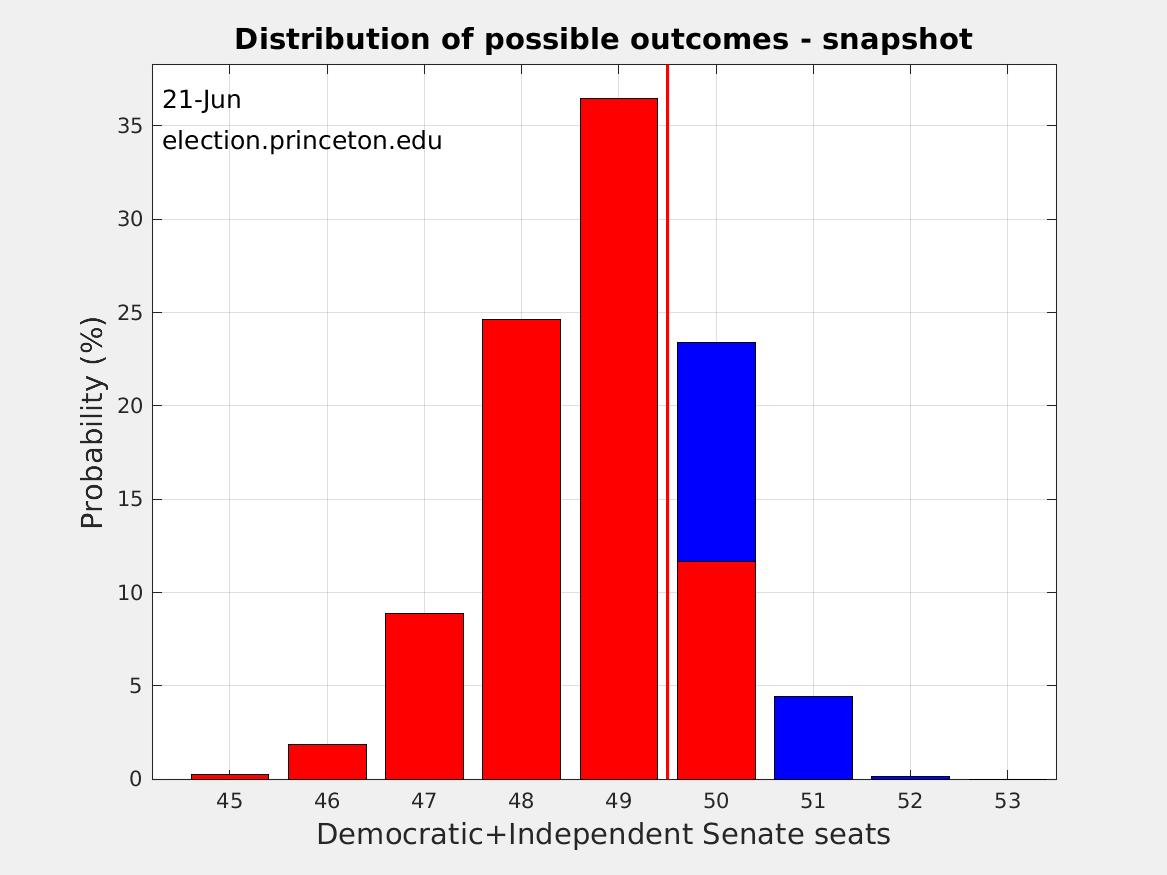
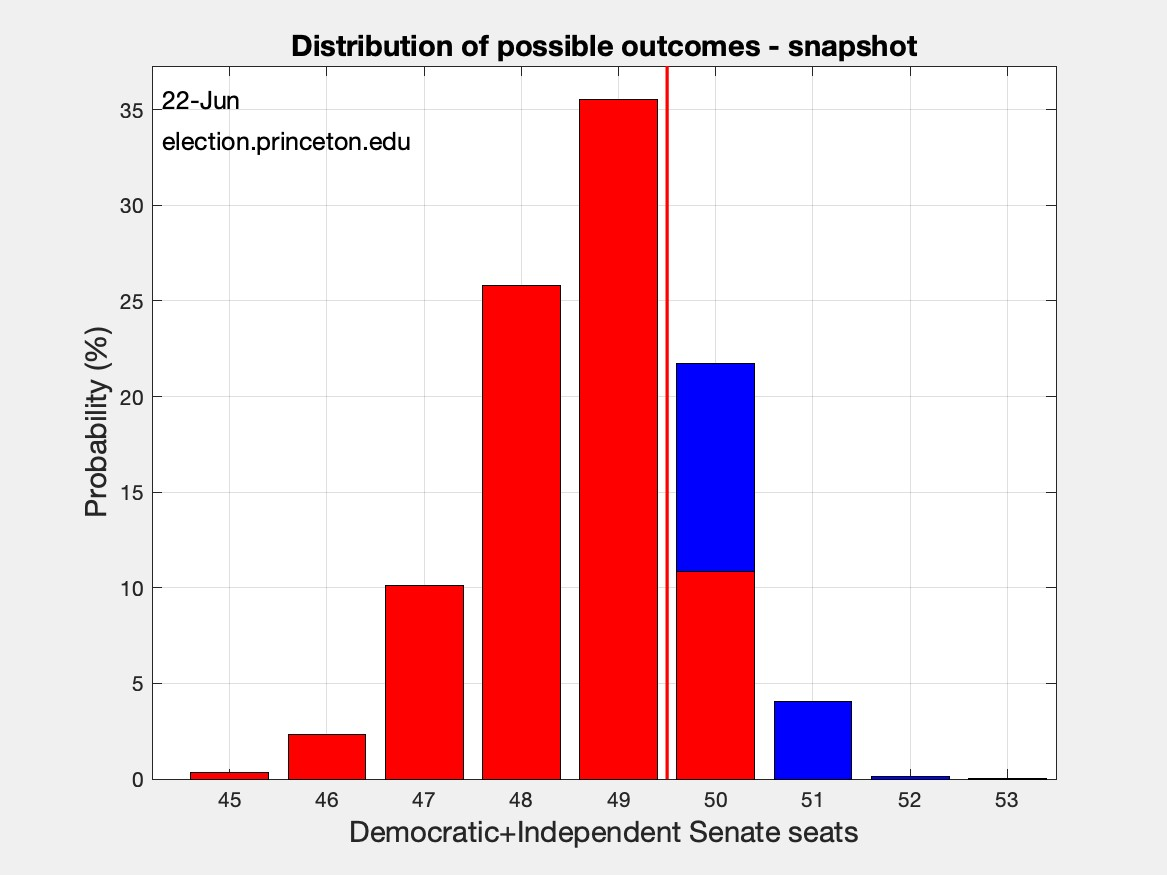
Updated DAYS_UNTIL_ELECTION and affected outputs

diff --git a/matlab/federal_constants_2024.m b/matlab/federal_constants_2024.m
@@ -3,8 +3,11 @@ YEAR = 2024;
 DIR_PATH = '../scraping/outputs/';
 
 TODAYTE = floor(today-datenum('31-dec-2023')); % today's date
-ELECTION_DATE = datenum(2024,11,5); % November 5, Julian 310
-DAYS_UNTIL_ELECTION = ELECTION_DATE - TODAYTE;
+%ELECTION_DATE = datenum(2024,11,5); % November 5, Julian 310
+%DAYS_UNTIL_ELECTION = ELECTION_DATE - TODAYTE;
+
+ELECTION_DATE = '2024-11-05';
+DAYS_UNTIL_ELECTION = calculateDaysUntil(ELECTION_DATE);
 
 %%%%%%%%%%%%%%%%%%%%%%%%%%%%%%%%%%%%%%%%%%%%%%%%%%%%%%%%%%%%%%%%%%%%
 % EV CONSTANTS
@@ -68,4 +71,21 @@ HOUSE_SPECIALS_SD = 3.5; % not that many previous examples
 
 % Output files
 HOUSE_PREDICTIONS_CSV = strcat('House_predictions_', num2str(YEAR), '.csv');
+
+
+%%%%%%%%%%%%%%%%%%%%%%%%%%%%%%%%%%%%%%%%%%%%%%%%%%%%%%%%%%%%%%%%%%%%
+% HELPER FUNCTIONS 
+
+function daysUntilDate = calculateDaysUntil(targetDate)
+    % Get the current date
+    currentDate = datetime('today');
+    
+    % Convert the target date to a datetime object if it is not already
+    if ~isa(targetDate, 'datetime')
+        targetDate = datetime(targetDate, 'InputFormat', 'yyyy-MM-dd');
+    end
+    
+    % Calculate the difference in days
+    daysUntilDate = days(targetDate - currentDate);
+end
 

diff --git a/matlab/Senate_estimator.m b/matlab/Senate_estimator.m
@@ -218,7 +218,9 @@ if biaspct==0
 %    foo=(polls.margin-2)./polls.SEM;
 %    R2probs=round((erf(foo/sqrt(2))+1)*50);
 
-daystoelection=ELECTION_DATE-today; % days until election (note: November 8, Julian 314)
+% daystoelection=ELECTION_DATE-today; % days until election (note: November 8, Julian 314)
+% Where is the function Bayesian_November_prediction at?
+daystoelection = DAYS_UNTIL_ELECTION; 
 for istate=1:length(polls.margin)
     [~,statenovprobs(istate),~]=Bayesian_November_prediction(daystoelection,polls.margin(istate),0.8,7,3,polls.margin(istate),10);
     [~,D2probs(istate),~]=Bayesian_November_prediction(daystoelection,polls.margin(istate)+2,0.8,7,3,polls.margin(istate),10);
